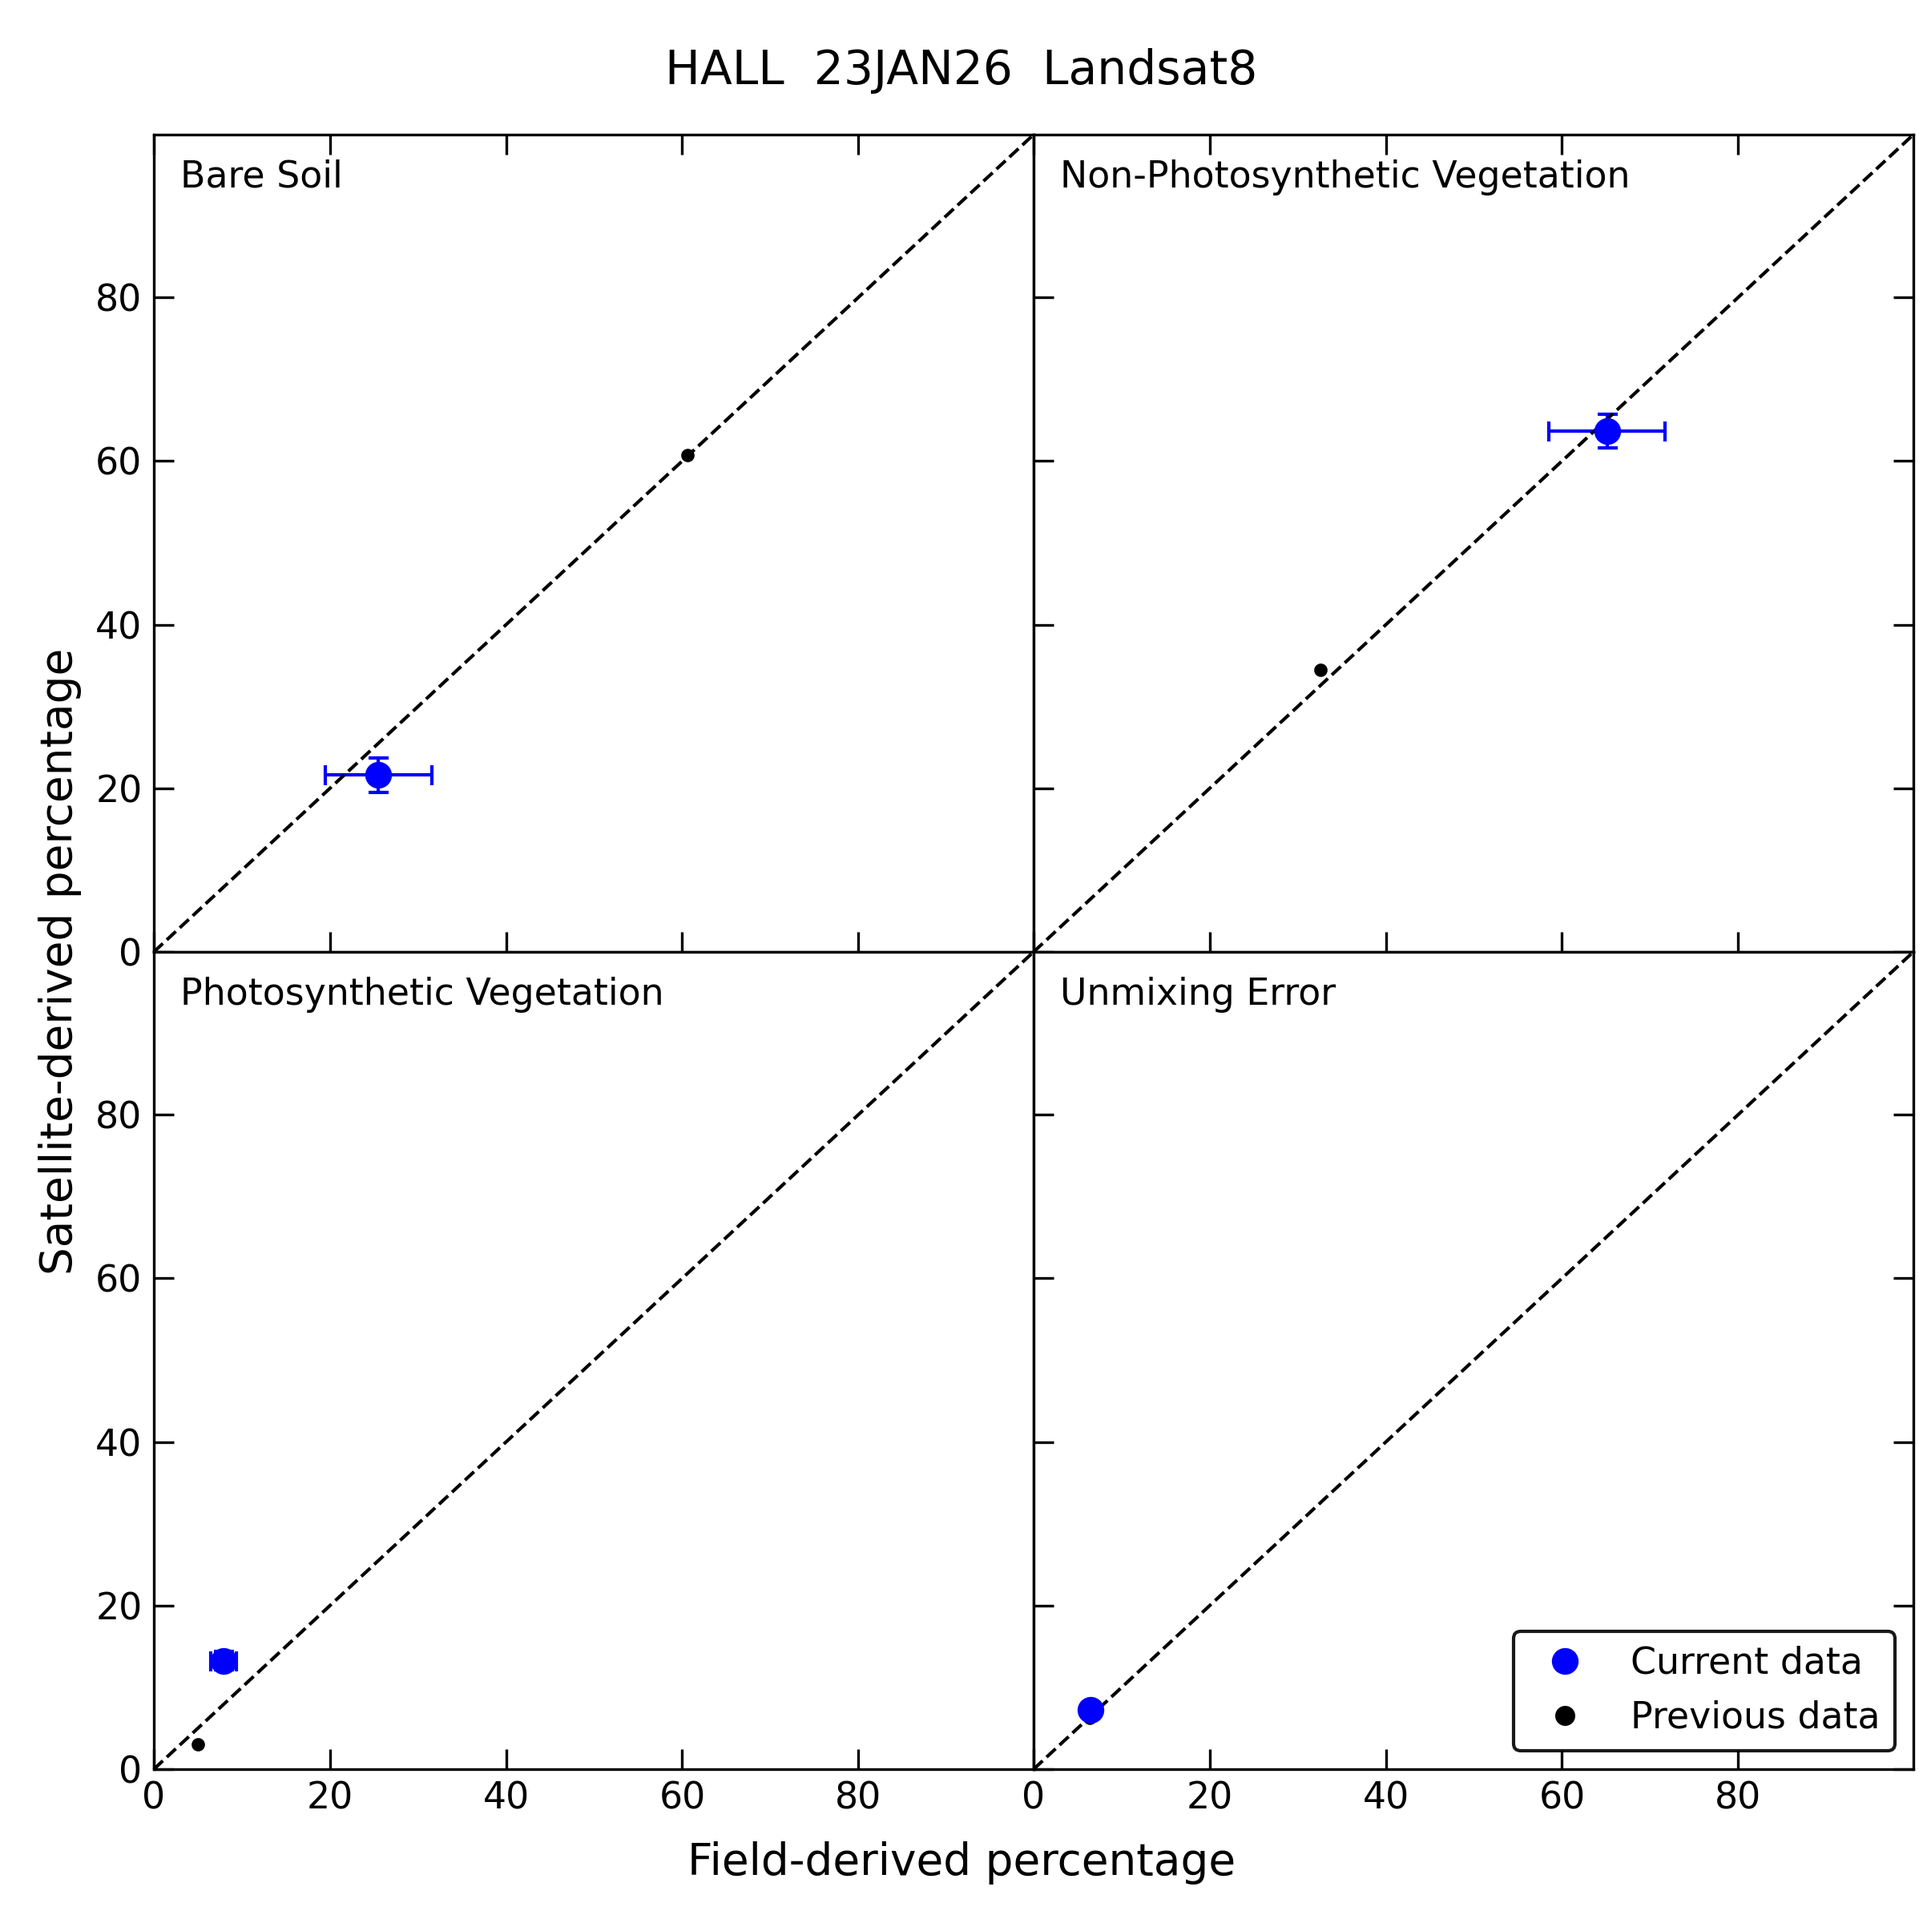
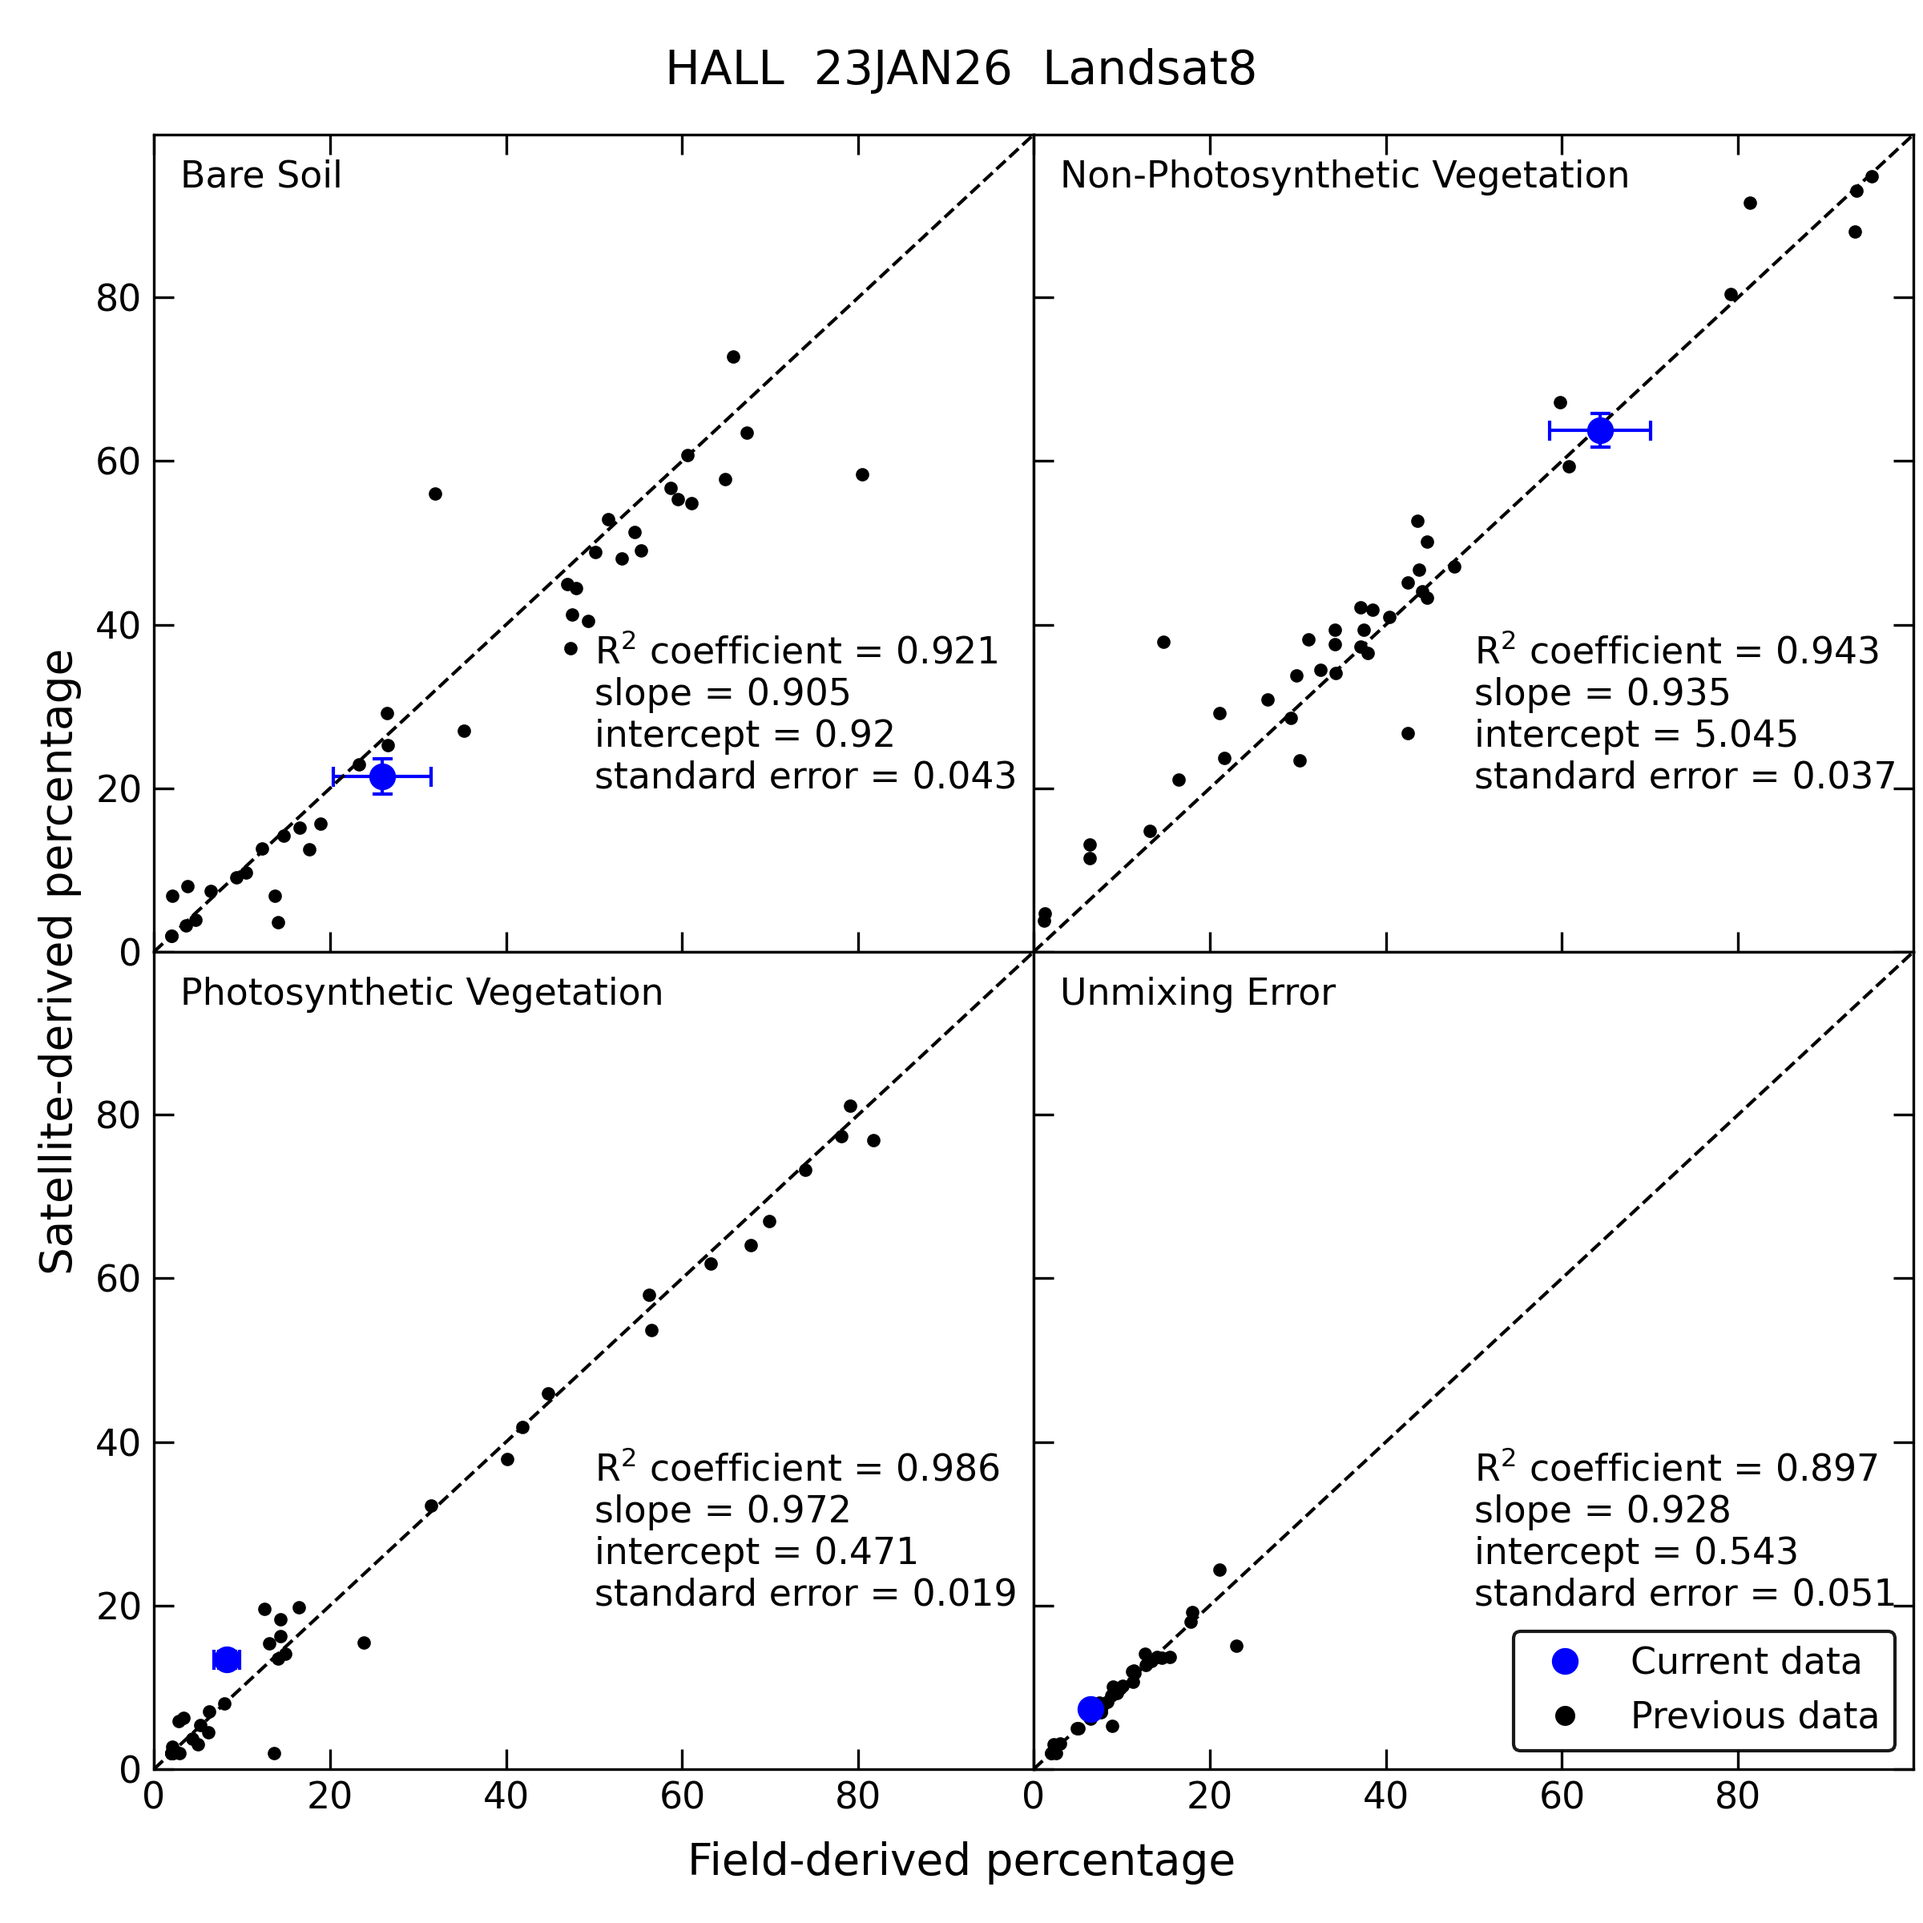
update information page

diff --git a/docs/guides/setup/validation/daily-summary-reports.md b/docs/guides/setup/validation/daily-summary-reports.md
@@ -111,7 +111,9 @@ derived from satellite measurements, whereas the opposite is true for PV.
     :::
 
 * **Figure 5** &mdash; A comparison between all satellite and field-based results for FC, with previous data shown as black dots and current data shown as blue dots with uncertainties.
-The dashed line in each panel represents the line of equality between satellite and field results and is NOT the line of best fit.
+The dashed line in each panel represents the line of equality between satellite and field results and is NOT the line of best fit. Statistics in the bottom-right corner of each panel
+are based on the (unshown) line of best fit through the data points. A $R^2$ correlation coefficient close to $1$ means a very high degree of correlation between field and satellite-derived
+FC parameters. A slope close to $1$ and intercept close to $0$ together indicate that overall, the field and satellite-derived FC parameters match up closely.
 
     :::{figure} /_files/validation/Daily_Summary_Report_Figure_5_FC-2026-01-17-HALL.png
     :alt: Figure 5 of the Daily Summary Report
